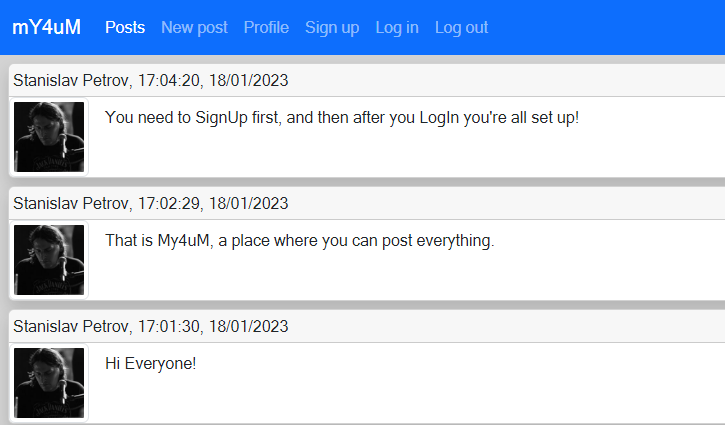
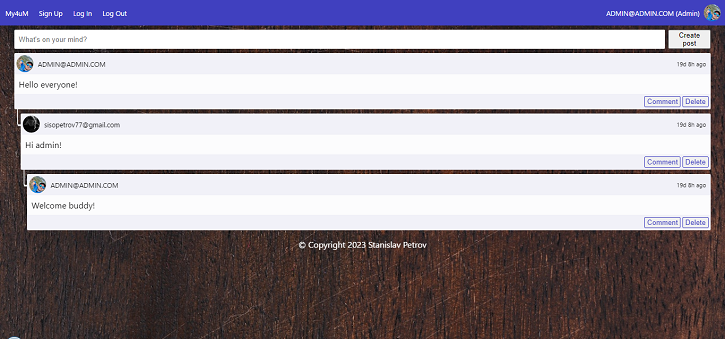
new version

diff --git a/src/projects/my4um.md b/src/projects/my4um.md
@@ -13,4 +13,4 @@ repoUrl: "#"
 
 ### Technologies Used
 
-I used JavaScript with Bootstrap CSS for the front end, and NodeJS and ExpressJS for the back end. Also used JWT token for user authentication, stored as a cookie.
+I used HTML, CSS, JavaScript and ReactJS in the front end, and NodeJS, ExpressJS, Parse server and MongoDB for the back end.
